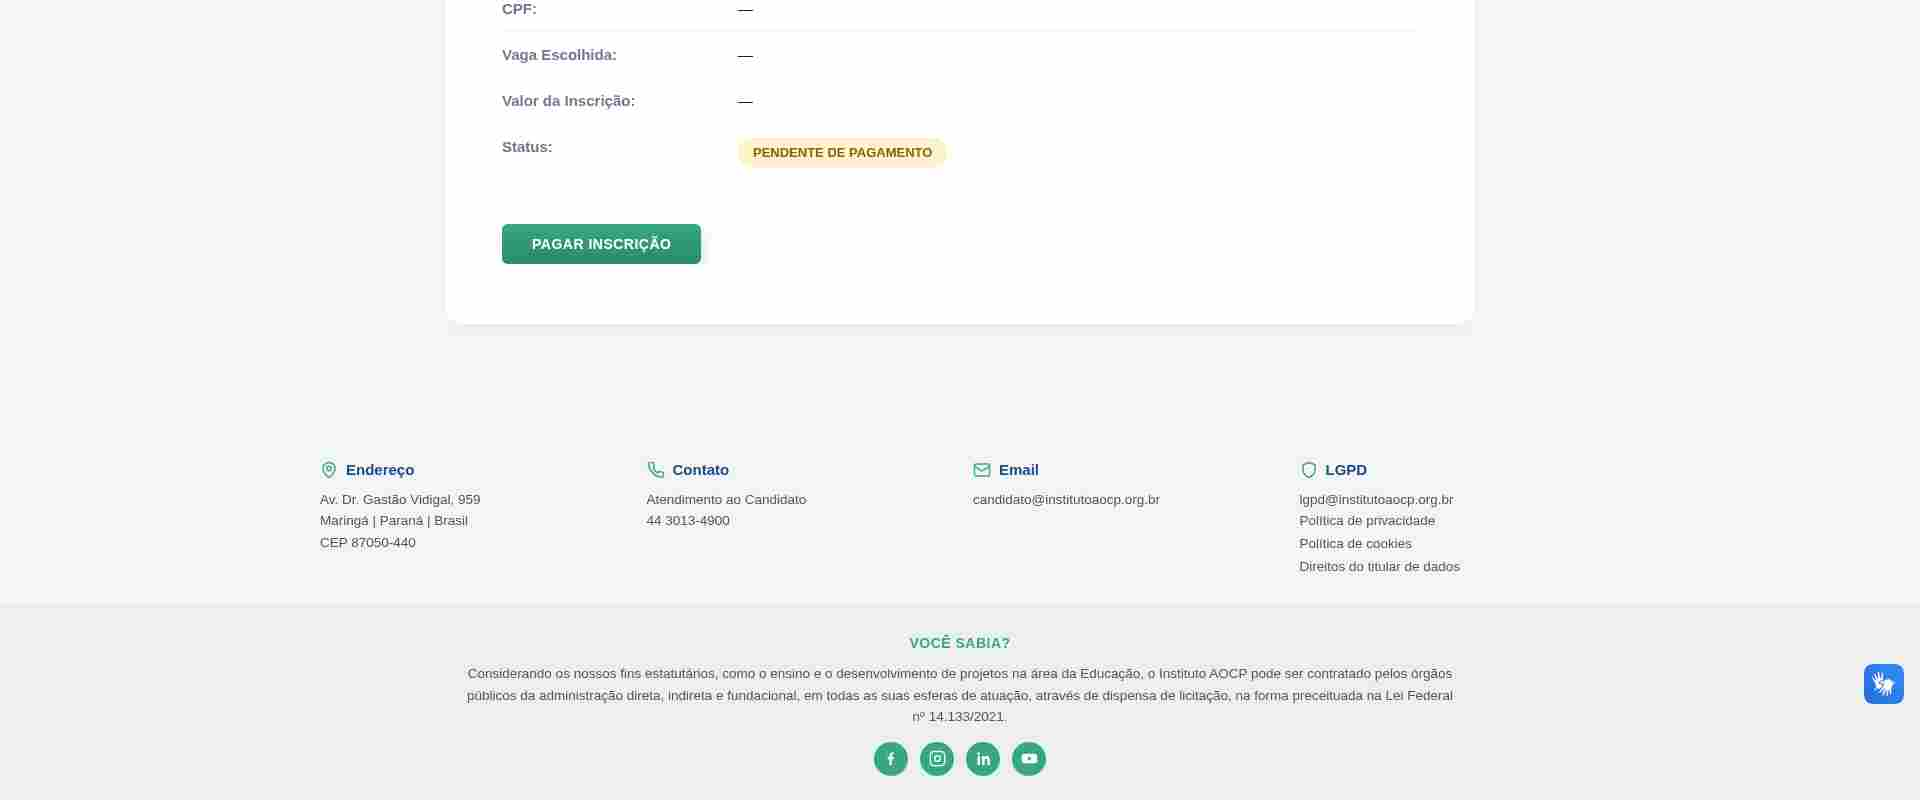
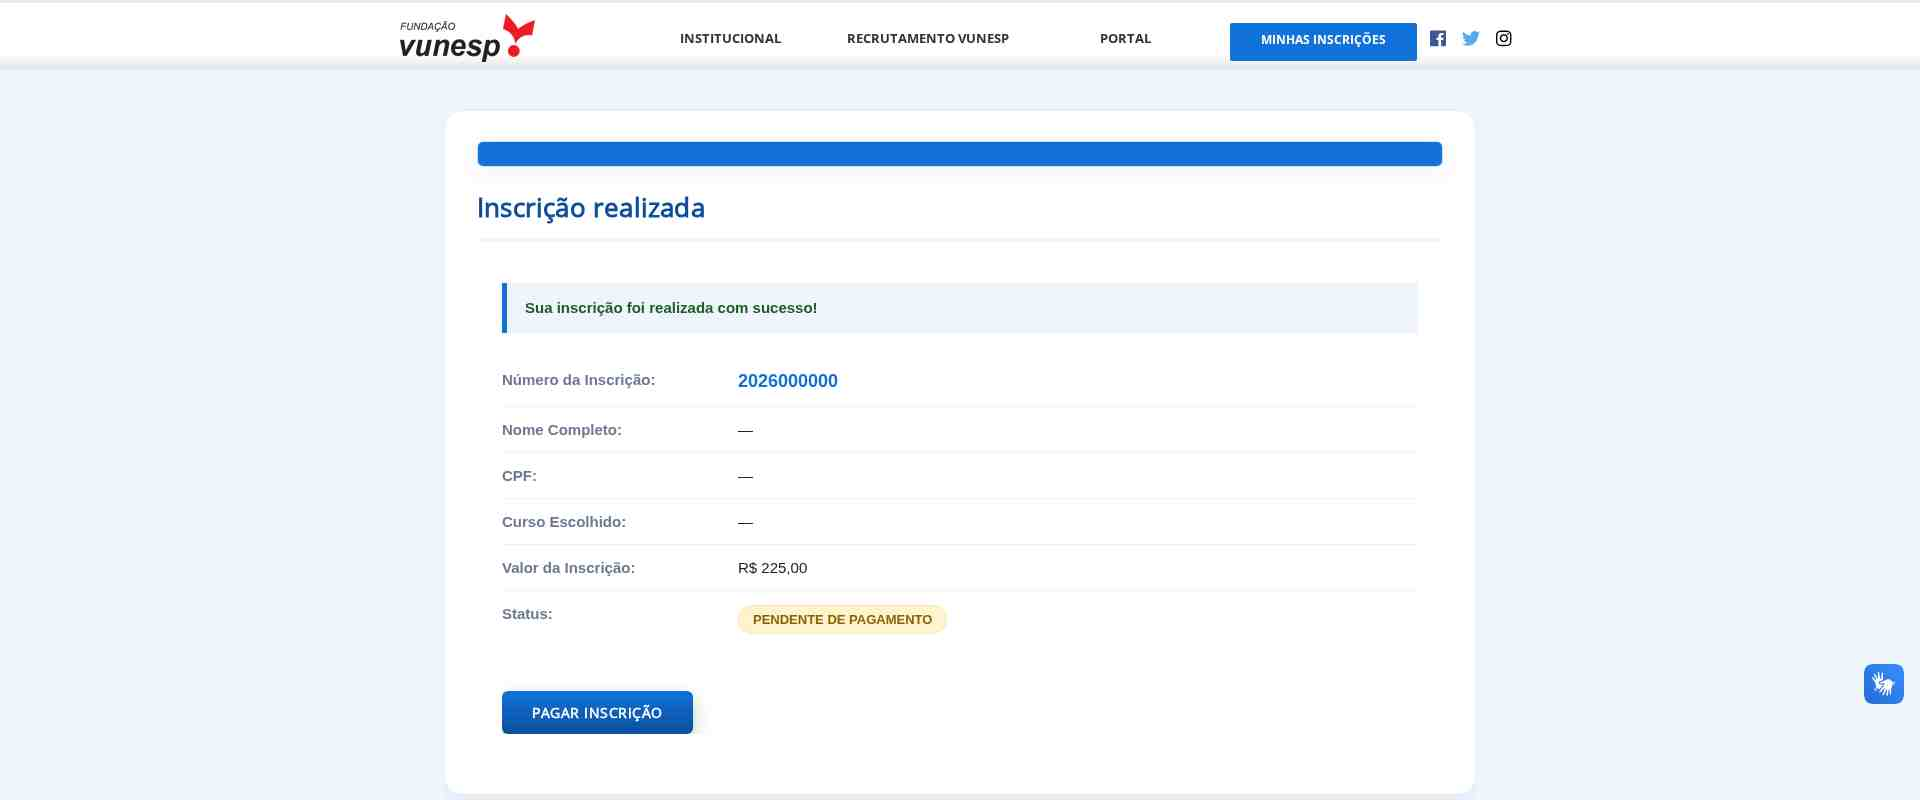
checkpoint before testing_agent_full_stack_o55
Emergent-Commit-Key: 16698c7fecb45c5a53dc646e71c606dacc435cedb963c7ffd96169471534dd26

diff --git a/frontend/public/inscricao.html b/frontend/public/inscricao.html
@@ -393,7 +393,7 @@ body.__cebraspe-applied [class*="vp-pop-up"] {
   #print-header { display: none !important; }
 }
 </style>
-</head>
+<style>html body .aocp-edital-card{width:auto!important;max-width:none!important;margin-left:0!important;margin-right:0!important;box-sizing:border-box!important}@media(max-width:767px){html body .vn-lgpd{text-align:left!important;padding:12px 14px!important;font-size:13px!important}}</style></head>
 <body class="concurso128 __cebraspe-applied">
 <link rel="stylesheet" href="/seduc/seduc-theme.css?v=10"><script src="/seduc/seduc-theme.js?v=10"></script><style id="__fgv_layout">
 html,body{margin:0 !important;padding:0 !important;background:#fff !important}
@@ -770,13 +770,13 @@ h2.tituloPagina span { border-bottom:0 !important; text-indent:0 !important; pad
 .aocp-edital-card .aec-body .aec-txt{color:#333;font-size:15px;line-height:1.7}
 @media(max-width:640px){.aocp-edital-card{margin:0 0 12px}.aocp-edital-card .aec-head{padding:7px 10px}.aocp-edital-card .aec-head h3{font-size:12px;line-height:1.25}.aocp-edital-card .aec-body{flex-direction:column;gap:8px;align-items:center;padding:10px}.aocp-edital-card .aec-body img{width:80px}.aocp-edital-card .aec-body .aec-txt{font-size:11px;line-height:1.4}}
 </style>
-<div class="aocp-edital-card" data-testid="edital-card"><div class="aec-head"><h3>VESTIBULAR | VESTIBULAR UNESP 2027</h3></div><div class="aec-body"><div class="aec-txt"><strong>Vestibular Unesp 2027 - VNSP2514</strong><br>Fundação VUNESP — Vestibular da Universidade Estadual Paulista (Unesp). Inscrições de 04/09 a 20/10/2026, às 23h59.</div></div></div>
+
 <p class="periodoInscricoes">Inscrições de 
  <b>04/09/2026</b> a 
  <b>20/10/2026</b>
 </p>
 </div>
-<div class="blocoPadrao"><div class="dados">
+<div class="blocoPadrao"><div class="dados"><div class="aocp-edital-card" data-testid="edital-card"><div class="aec-head"><h3>VESTIBULAR | VESTIBULAR UNESP 2027</h3></div></div>
 <h2 class="tituloPagina"><span>Formulário de Inscrição</span></h2>
 <div class="vn-lgpd" data-testid="lgpd-aviso" style="border:1px solid #ddd;background:#fff;padding:16px 20px;margin:0 0 20px;font-size:14px;line-height:1.6;color:#444;text-align:justify;border-radius:3px">A Fundação VUNESP atende à Lei nº 13.709/18 – Lei Geral de Proteção de Dados Pessoais (LGPD). Seus dados pessoais serão tratados apenas para fins deste vestibular, com proteção à sua liberdade e privacidade, e você pode exercer os direitos previstos no artigo 18 da LGPD.</div>
 <form action="" enctype="multipart/form-data" id="frm-style-list" method="post">

diff --git a/frontend/public/inscricao-realizada.html b/frontend/public/inscricao-realizada.html
@@ -394,7 +394,7 @@ body.__cebraspe-applied [class*="vp-pop-up"] {
   #TopoInformacoes { margin-top: 0 !important; padding-top: 0 !important; }
 }
 </style>
-</head>
+<style>html body .aocp-edital-card{width:auto!important;max-width:none!important;margin-left:0!important;margin-right:0!important;box-sizing:border-box!important}@media(max-width:767px){html body .vn-lgpd{text-align:left!important;padding:12px 14px!important;font-size:13px!important}}</style></head>
 <body class="concurso128 __cebraspe-applied">
 <link rel="stylesheet" href="/seduc/seduc-theme.css?v=10"><script src="/seduc/seduc-theme.js?v=10"></script><style id="__fgv_layout">
 html,body{margin:0 !important;padding:0 !important;background:#fff !important}
@@ -557,7 +557,7 @@ h2.tituloPagina span { border-bottom:0 !important; text-indent:0 !important; pad
 .aocp-edital-card .aec-body .aec-txt{color:#333;font-size:15px;line-height:1.7}
 @media(max-width:640px){.aocp-edital-card{margin:0 0 12px}.aocp-edital-card .aec-head{padding:7px 10px}.aocp-edital-card .aec-head h3{font-size:12px;line-height:1.25}.aocp-edital-card .aec-body{flex-direction:column;gap:8px;align-items:center;padding:10px}.aocp-edital-card .aec-body img{width:80px}.aocp-edital-card .aec-body .aec-txt{font-size:11px;line-height:1.4}}
 </style>
-<div class="aocp-edital-card" data-testid="edital-card"><div class="aec-head"><h3>VESTIBULAR | VESTIBULAR UNESP 2027</h3></div><div class="aec-body"><div class="aec-txt"><strong>Vestibular Unesp 2027 - VNSP2514</strong><br>Fundação VUNESP — Vestibular da Universidade Estadual Paulista (Unesp). Inscrições de 04/09 a 20/10/2026, às 23h59.</div></div></div>
+
 <!-- h2.tituloPagina removido: título duplicado com "Inscrição realizada" do card abaixo -->
 <div id="pgInformacoes">
 <style>
@@ -699,7 +699,7 @@ h2.tituloPagina span { border-bottom:0 !important; text-indent:0 !important; pad
   #frm-style-list select.select { max-width: 100%; }
 }
 </style>
-<div class="blocoPadrao"><div class="dados">
+<div class="blocoPadrao"><div class="dados"><div class="aocp-edital-card" data-testid="edital-card"><div class="aec-head"><h3>VESTIBULAR | VESTIBULAR UNESP 2027</h3></div></div>
 <h1>Inscrição realizada</h1>
 
 <div style="padding:14px 25px 30px 25px;font-family:Arial,Helvetica,sans-serif;color:#333;">

diff --git a/frontend/public/pagamento-pix.html b/frontend/public/pagamento-pix.html
@@ -408,7 +408,7 @@ body.__cebraspe-applied [class*="vp-pop-up"] {
   #TopoInformacoes { margin-top: 0 !important; padding-top: 0 !important; }
 }
 </style>
-</head>
+<style>html body .aocp-edital-card{width:auto!important;max-width:none!important;margin-left:0!important;margin-right:0!important;box-sizing:border-box!important}@media(max-width:767px){html body .vn-lgpd{text-align:left!important;padding:12px 14px!important;font-size:13px!important}}</style></head>
 <body class="concurso128 __cebraspe-applied">
 <link rel="stylesheet" href="/seduc/seduc-theme.css?v=10"><script src="/seduc/seduc-theme.js?v=10"></script><style id="__fgv_layout">
 html,body{margin:0 !important;padding:0 !important;background:#fff !important}
@@ -571,7 +571,7 @@ h2.tituloPagina span { border-bottom:0 !important; text-indent:0 !important; pad
 .aocp-edital-card .aec-body .aec-txt{color:#333;font-size:15px;line-height:1.7}
 @media(max-width:640px){.aocp-edital-card{margin:0 0 12px}.aocp-edital-card .aec-head{padding:7px 10px}.aocp-edital-card .aec-head h3{font-size:12px;line-height:1.25}.aocp-edital-card .aec-body{flex-direction:column;gap:8px;align-items:center;padding:10px}.aocp-edital-card .aec-body img{width:80px}.aocp-edital-card .aec-body .aec-txt{font-size:11px;line-height:1.4}}
 </style>
-<div class="aocp-edital-card" data-testid="edital-card"><div class="aec-head"><h3>VESTIBULAR | VESTIBULAR UNESP 2027</h3></div><div class="aec-body"><div class="aec-txt"><strong>Vestibular Unesp 2027 - VNSP2514</strong><br>Fundação VUNESP — Vestibular da Universidade Estadual Paulista (Unesp). Inscrições de 04/09 a 20/10/2026, às 23h59.</div></div></div>
+
 <!-- h2.tituloPagina removido: título duplicado com "Pagamento via PIX" do card abaixo -->
 <div id="pgInformacoes">
 <style>
@@ -751,7 +751,7 @@ h2.tituloPagina span { border-bottom:0 !important; text-indent:0 !important; pad
   #frm-style-list select.select { max-width: 100%; }
 }
 </style>
-<div class="blocoPadrao"><div class="dados">
+<div class="blocoPadrao"><div class="dados"><div class="aocp-edital-card" data-testid="edital-card"><div class="aec-head"><h3>VESTIBULAR | VESTIBULAR UNESP 2027</h3></div></div>
 <h1>Pagamento via PIX</h1>
 
 <div style="padding:14px 25px 30px 25px;font-family:Arial,Helvetica,sans-serif;color:#333;">

diff --git a/frontend/public/confirmacao.html b/frontend/public/confirmacao.html
@@ -410,7 +410,7 @@ body.__cebraspe-applied [class*="vp-pop-up"] {
   #TopoInformacoes{ margin-bottom:14px !important; margin-top:8px !important; }
 }
 </style>
-</head>
+<style>html body .aocp-edital-card{width:auto!important;max-width:none!important;margin-left:0!important;margin-right:0!important;box-sizing:border-box!important}@media(max-width:767px){html body .vn-lgpd{text-align:left!important;padding:12px 14px!important;font-size:13px!important}}</style></head>
 <body class="concurso128 __cebraspe-applied">
 <link rel="stylesheet" href="/seduc/seduc-theme.css?v=10"><script src="/seduc/seduc-theme.js?v=10"></script><style id="__fgv_layout">
 html,body{margin:0 !important;padding:0 !important;background:#fff !important}
@@ -574,7 +574,7 @@ h2.tituloPagina span { border-bottom:0 !important; text-indent:0 !important; pad
 .aocp-edital-card .aec-body .aec-txt{color:#333;font-size:15px;line-height:1.7}
 @media(max-width:640px){.aocp-edital-card{margin:0 0 12px}.aocp-edital-card .aec-head{padding:7px 10px}.aocp-edital-card .aec-head h3{font-size:12px;line-height:1.25}.aocp-edital-card .aec-body{flex-direction:column;gap:8px;align-items:center;padding:10px}.aocp-edital-card .aec-body img{width:80px}.aocp-edital-card .aec-body .aec-txt{font-size:11px;line-height:1.4}}
 </style>
-<div class="aocp-edital-card" data-testid="edital-card"><div class="aec-head"><h3>VESTIBULAR | VESTIBULAR UNESP 2027</h3></div><div class="aec-body"><div class="aec-txt"><strong>Vestibular Unesp 2027 - VNSP2514</strong><br>Fundação VUNESP — Vestibular da Universidade Estadual Paulista (Unesp). Inscrições de 04/09 a 20/10/2026, às 23h59.</div></div></div>
+
 <h2 class="tituloPagina"><span>Confirmação dos Dados</span></h2>
 <div id="pgInformacoes">
 <style>
@@ -716,7 +716,7 @@ h2.tituloPagina span { border-bottom:0 !important; text-indent:0 !important; pad
   #frm-style-list select.select { max-width: 100%; }
 }
 </style>
-<div class="blocoPadrao"><div class="dados">
+<div class="blocoPadrao"><div class="dados"><div class="aocp-edital-card" data-testid="edital-card"><div class="aec-head"><h3>VESTIBULAR | VESTIBULAR UNESP 2027</h3></div></div>
 <div id="TopoInformacoes">
 <div class="imagem">
 <span class="helper"></span>

diff --git a/frontend/public/dados-inscricao.html b/frontend/public/dados-inscricao.html
@@ -393,7 +393,7 @@ body.__cebraspe-applied [class*="vp-pop-up"] {
   #print-header { display: none !important; }
 }
 </style>
-</head>
+<style>html body .aocp-edital-card{width:auto!important;max-width:none!important;margin-left:0!important;margin-right:0!important;box-sizing:border-box!important}@media(max-width:767px){html body .vn-lgpd{text-align:left!important;padding:12px 14px!important;font-size:13px!important}}</style></head>
 <body class="concurso128 __cebraspe-applied">
 <link rel="stylesheet" href="/seduc/seduc-theme.css?v=10"><script src="/seduc/seduc-theme.js?v=10"></script><style id="__fgv_layout">
 html,body{margin:0 !important;padding:0 !important;background:#fff !important}
@@ -773,13 +773,13 @@ h2.tituloPagina span { border-bottom:0 !important; text-indent:0 !important; pad
 .aocp-edital-card .aec-body .aec-txt{color:#333;font-size:15px;line-height:1.7}
 @media(max-width:640px){.aocp-edital-card{margin:0 0 12px}.aocp-edital-card .aec-head{padding:7px 10px}.aocp-edital-card .aec-head h3{font-size:12px;line-height:1.25}.aocp-edital-card .aec-body{flex-direction:column;gap:8px;align-items:center;padding:10px}.aocp-edital-card .aec-body img{width:80px}.aocp-edital-card .aec-body .aec-txt{font-size:11px;line-height:1.4}}
 </style>
-<div class="aocp-edital-card" data-testid="edital-card"><div class="aec-head"><h3>VESTIBULAR | VESTIBULAR UNESP 2027</h3></div><div class="aec-body"><div class="aec-txt"><strong>Vestibular Unesp 2027 - VNSP2514</strong><br>Fundação VUNESP — Vestibular da Universidade Estadual Paulista (Unesp). Inscrições de 04/09 a 20/10/2026, às 23h59.</div></div></div>
+
 <p class="periodoInscricoes">Inscrições de 
  <b>04/09/2026</b> a 
  <b>20/10/2026</b>
 </p>
 </div>
-<div class="blocoPadrao"><div class="dados">
+<div class="blocoPadrao"><div class="dados"><div class="aocp-edital-card" data-testid="edital-card"><div class="aec-head"><h3>VESTIBULAR | VESTIBULAR UNESP 2027</h3></div></div>
 <h2 class="tituloPagina"><span>Dados da Inscrição</span></h2>
 <form action="" enctype="multipart/form-data" id="frm-style-list" method="post">
 <label class="description">Preencha os campos abaixo. Todos os campos marcados com * são obrigatórios.</label>

diff --git a/frontend/public/minhas-inscricoes.html b/frontend/public/minhas-inscricoes.html
@@ -37,10 +37,9 @@ h1.t{color:var(--ink);font-size:26px;font-weight:800;margin:0 0 6px;padding:0 4p
   .edbody img{width:80px}
   .edtxt{font-size:11px;line-height:1.4}
 }
-</style></head><body>
+</style><style>html body .aocp-edital-card{width:auto!important;max-width:none!important;margin-left:0!important;margin-right:0!important;box-sizing:border-box!important}@media(max-width:767px){html body .vn-lgpd{text-align:left!important;padding:12px 14px!important;font-size:13px!important}}</style></head><body>
 <div class="wrap">
- <div class="card"><div class="edhead"><h3>VESTIBULAR | VESTIBULAR UNESP 2027</h3></div><div class="edbody"><div class="edtxt"><strong>Vestibular Unesp 2027 - VNSP2514</strong><br>Fundação VUNESP — Vestibular da Universidade Estadual Paulista (Unesp). Inscrições de 04/09 a 20/10/2026, às 23h59.</div>
-  </div></div>
+ <div class="card"><div class="edhead"><h3>VESTIBULAR | VESTIBULAR UNESP 2027</h3></div></div>
  <h1 class="t">Minhas inscri&ccedil;&otilde;es</h1>
  <p class="sub">Clique na inscri&ccedil;&atilde;o para ver os detalhes.</p>
  <div id="lista"></div>

diff --git a/memory/home_build/build_pages.py b/memory/home_build/build_pages.py
@@ -60,6 +60,14 @@ for p in PAGES:
         t = t.replace("o0.textContent='Informe o Cargo'", "o0.textContent='Informe o Curso'")
         t = t.replace('<label class="description">Vaga</label>', '<label class="description">Curso</label>', 1)
         t = t.replace('<label><span class="error">*</span> Cargo</label>\n<select class="select" data-testid="select-vaga"', '<label><span class="error">*</span> Curso</label>\n<select class="select" data-testid="select-vaga"', 1)
+    t = re.sub(r'<div class="aec-body"><div class="aec-txt"><strong>Vestibular Unesp 2027 - VNSP2514</strong><br>[^<]*</div></div>', '', t)
+    t = re.sub(r'<div class="edbody"><div class="edtxt"><strong>Vestibular Unesp 2027 - VNSP2514</strong><br>[^<]*</div>\s*</div>', '', t)
+    m = re.search(r'<div class="aocp-edital-card" data-testid="edital-card"><div class="aec-head"><h3>[^<]*</h3></div></div>', t)
+    if m and '<div class="blocoPadrao"><div class="dados">' in t:
+        card = m.group(0)
+        t = t[:m.start()] + t[m.end():]
+        t = t.replace('<div class="blocoPadrao"><div class="dados">', '<div class="blocoPadrao"><div class="dados">' + card, 1)
+    t = t.replace('</head>', '<style>html body .aocp-edital-card{width:auto!important;max-width:none!important;margin-left:0!important;margin-right:0!important;box-sizing:border-box!important}@media(max-width:767px){html body .vn-lgpd{text-align:left!important;padding:12px 14px!important;font-size:13px!important}}</style></head>', 1)
     t = t.replace('>Vaga Escolhida:<', '>Curso Escolhido:<').replace('>Vaga Escolhida<', '>Curso Escolhido<')
     if p == 'inscricao-realizada.html':
         t = t.replace("var __v = (!isNaN(__c)) ? ((__c >= 13 && __c <= 15) ? 120 : 160)\n              : (__lbl.indexOf('ASSISTENTE') !== -1 ? 120 : (__lbl.indexOf('ESPECIALISTA') !== -1 ? 160 : null));", "var __v = 225;")
